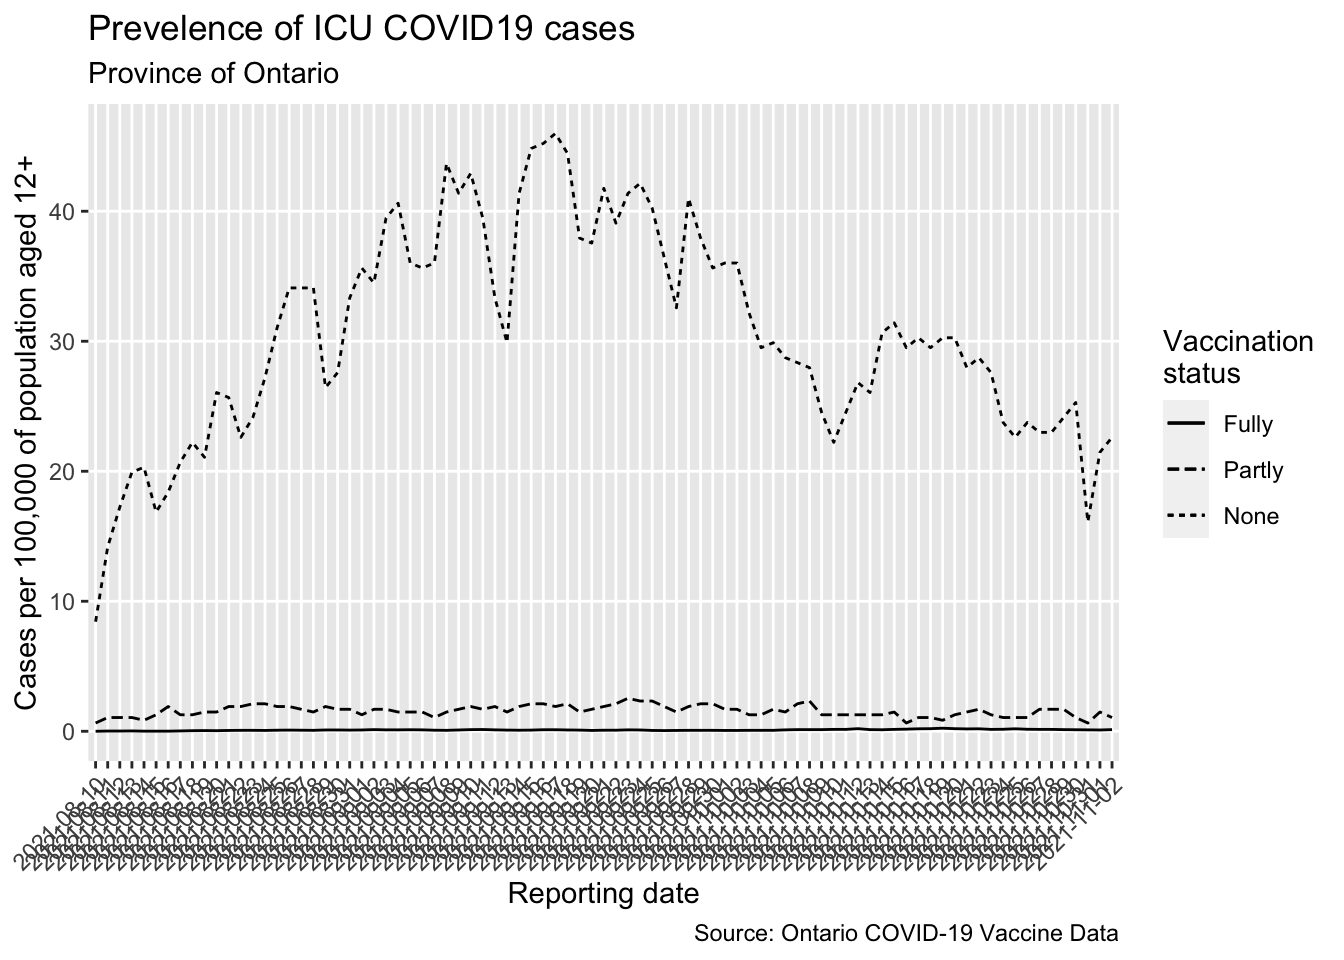
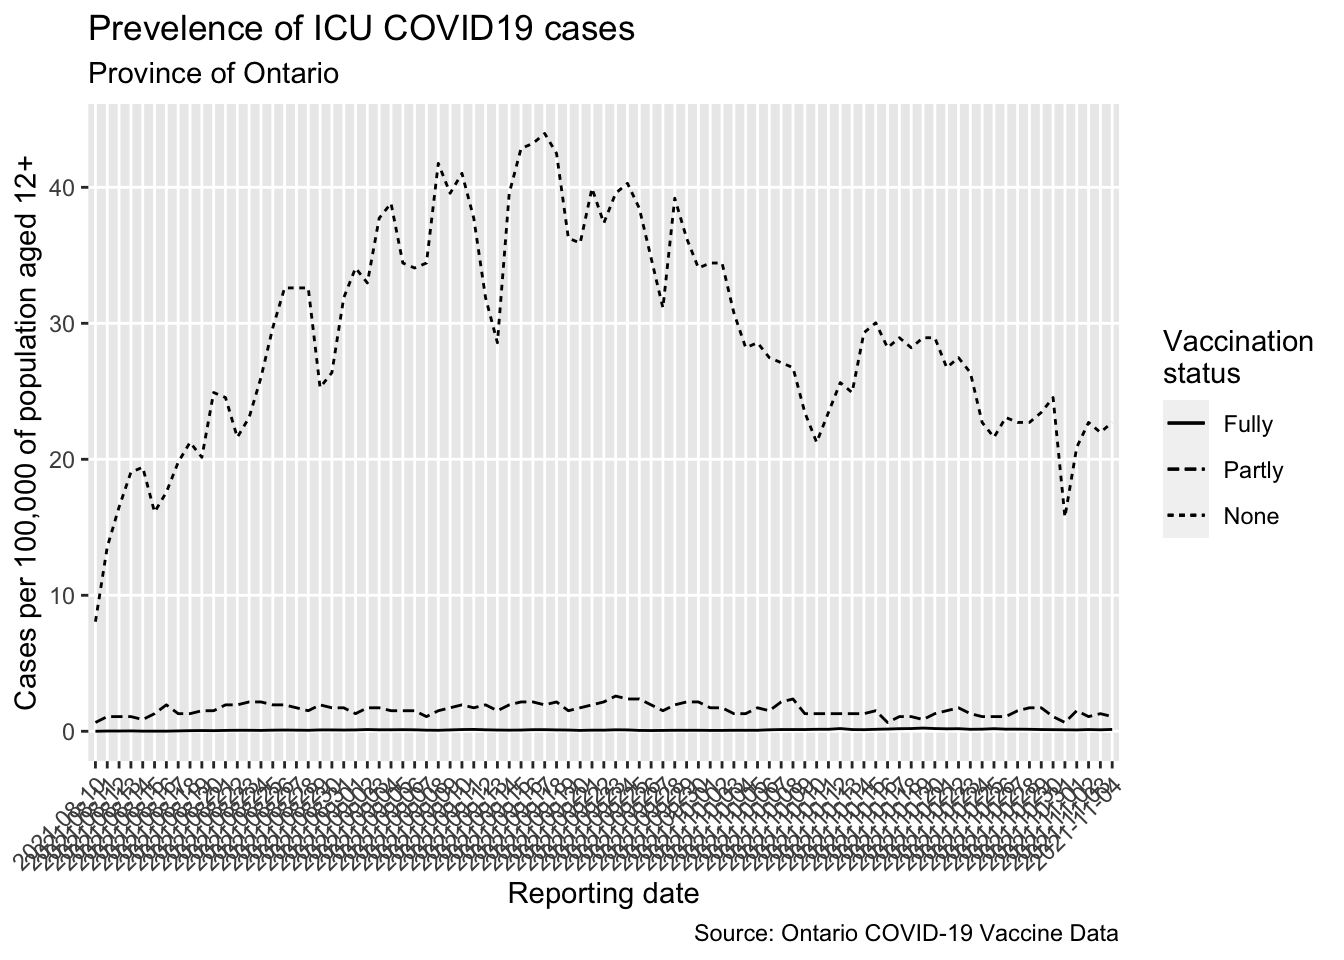
2021-11-05 update

diff --git a/docs/index.html b/docs/index.html
@@ -10,7 +10,7 @@
 
 
 
-<meta name="date" content="2021-11-02" />
+<meta name="date" content="2021-11-05" />
 
 <title>Ontario COVID-19 vaccination progress</title>
 
@@ -190,7 +190,7 @@ summary {
 
 
 <h1 class="title toc-ignore">Ontario COVID-19 vaccination progress</h1>
-<h4 class="date">2021-11-02</h4>
+<h4 class="date">2021-11-05</h4>
 
 </div>
 
@@ -210,10 +210,10 @@ summary {
 </thead>
 <tbody>
 <tr class="odd">
-<td align="center">2021-11-02</td>
-<td align="center">11031522</td>
-<td align="center">472874</td>
-<td align="center">11504396</td>
+<td align="center">2021-11-04</td>
+<td align="center">11053036</td>
+<td align="center">463367</td>
+<td align="center">11516403</td>
 </tr>
 </tbody>
 </table>
@@ -244,9 +244,9 @@ summary {
 </thead>
 <tbody>
 <tr class="odd">
-<td align="center">2021-11-02</td>
-<td align="center">13774</td>
-<td align="center">22535918</td>
+<td align="center">2021-11-04</td>
+<td align="center">16588</td>
+<td align="center">22569439</td>
 </tr>
 </tbody>
 </table>

diff --git a/docs/ontario-covid-vaccinations.html b/docs/ontario-covid-vaccinations.html
@@ -207,10 +207,10 @@ summary {
 </thead>
 <tbody>
 <tr class="odd">
-<td align="center">2021-11-02</td>
-<td align="center">11031522</td>
-<td align="center">472874</td>
-<td align="center">11504396</td>
+<td align="center">2021-11-04</td>
+<td align="center">11053036</td>
+<td align="center">463367</td>
+<td align="center">11516403</td>
 </tr>
 </tbody>
 </table>
@@ -241,9 +241,9 @@ summary {
 </thead>
 <tbody>
 <tr class="odd">
-<td align="center">2021-11-02</td>
-<td align="center">13774</td>
-<td align="center">22535918</td>
+<td align="center">2021-11-04</td>
+<td align="center">16588</td>
+<td align="center">22569439</td>
 </tr>
 </tbody>
 </table>
